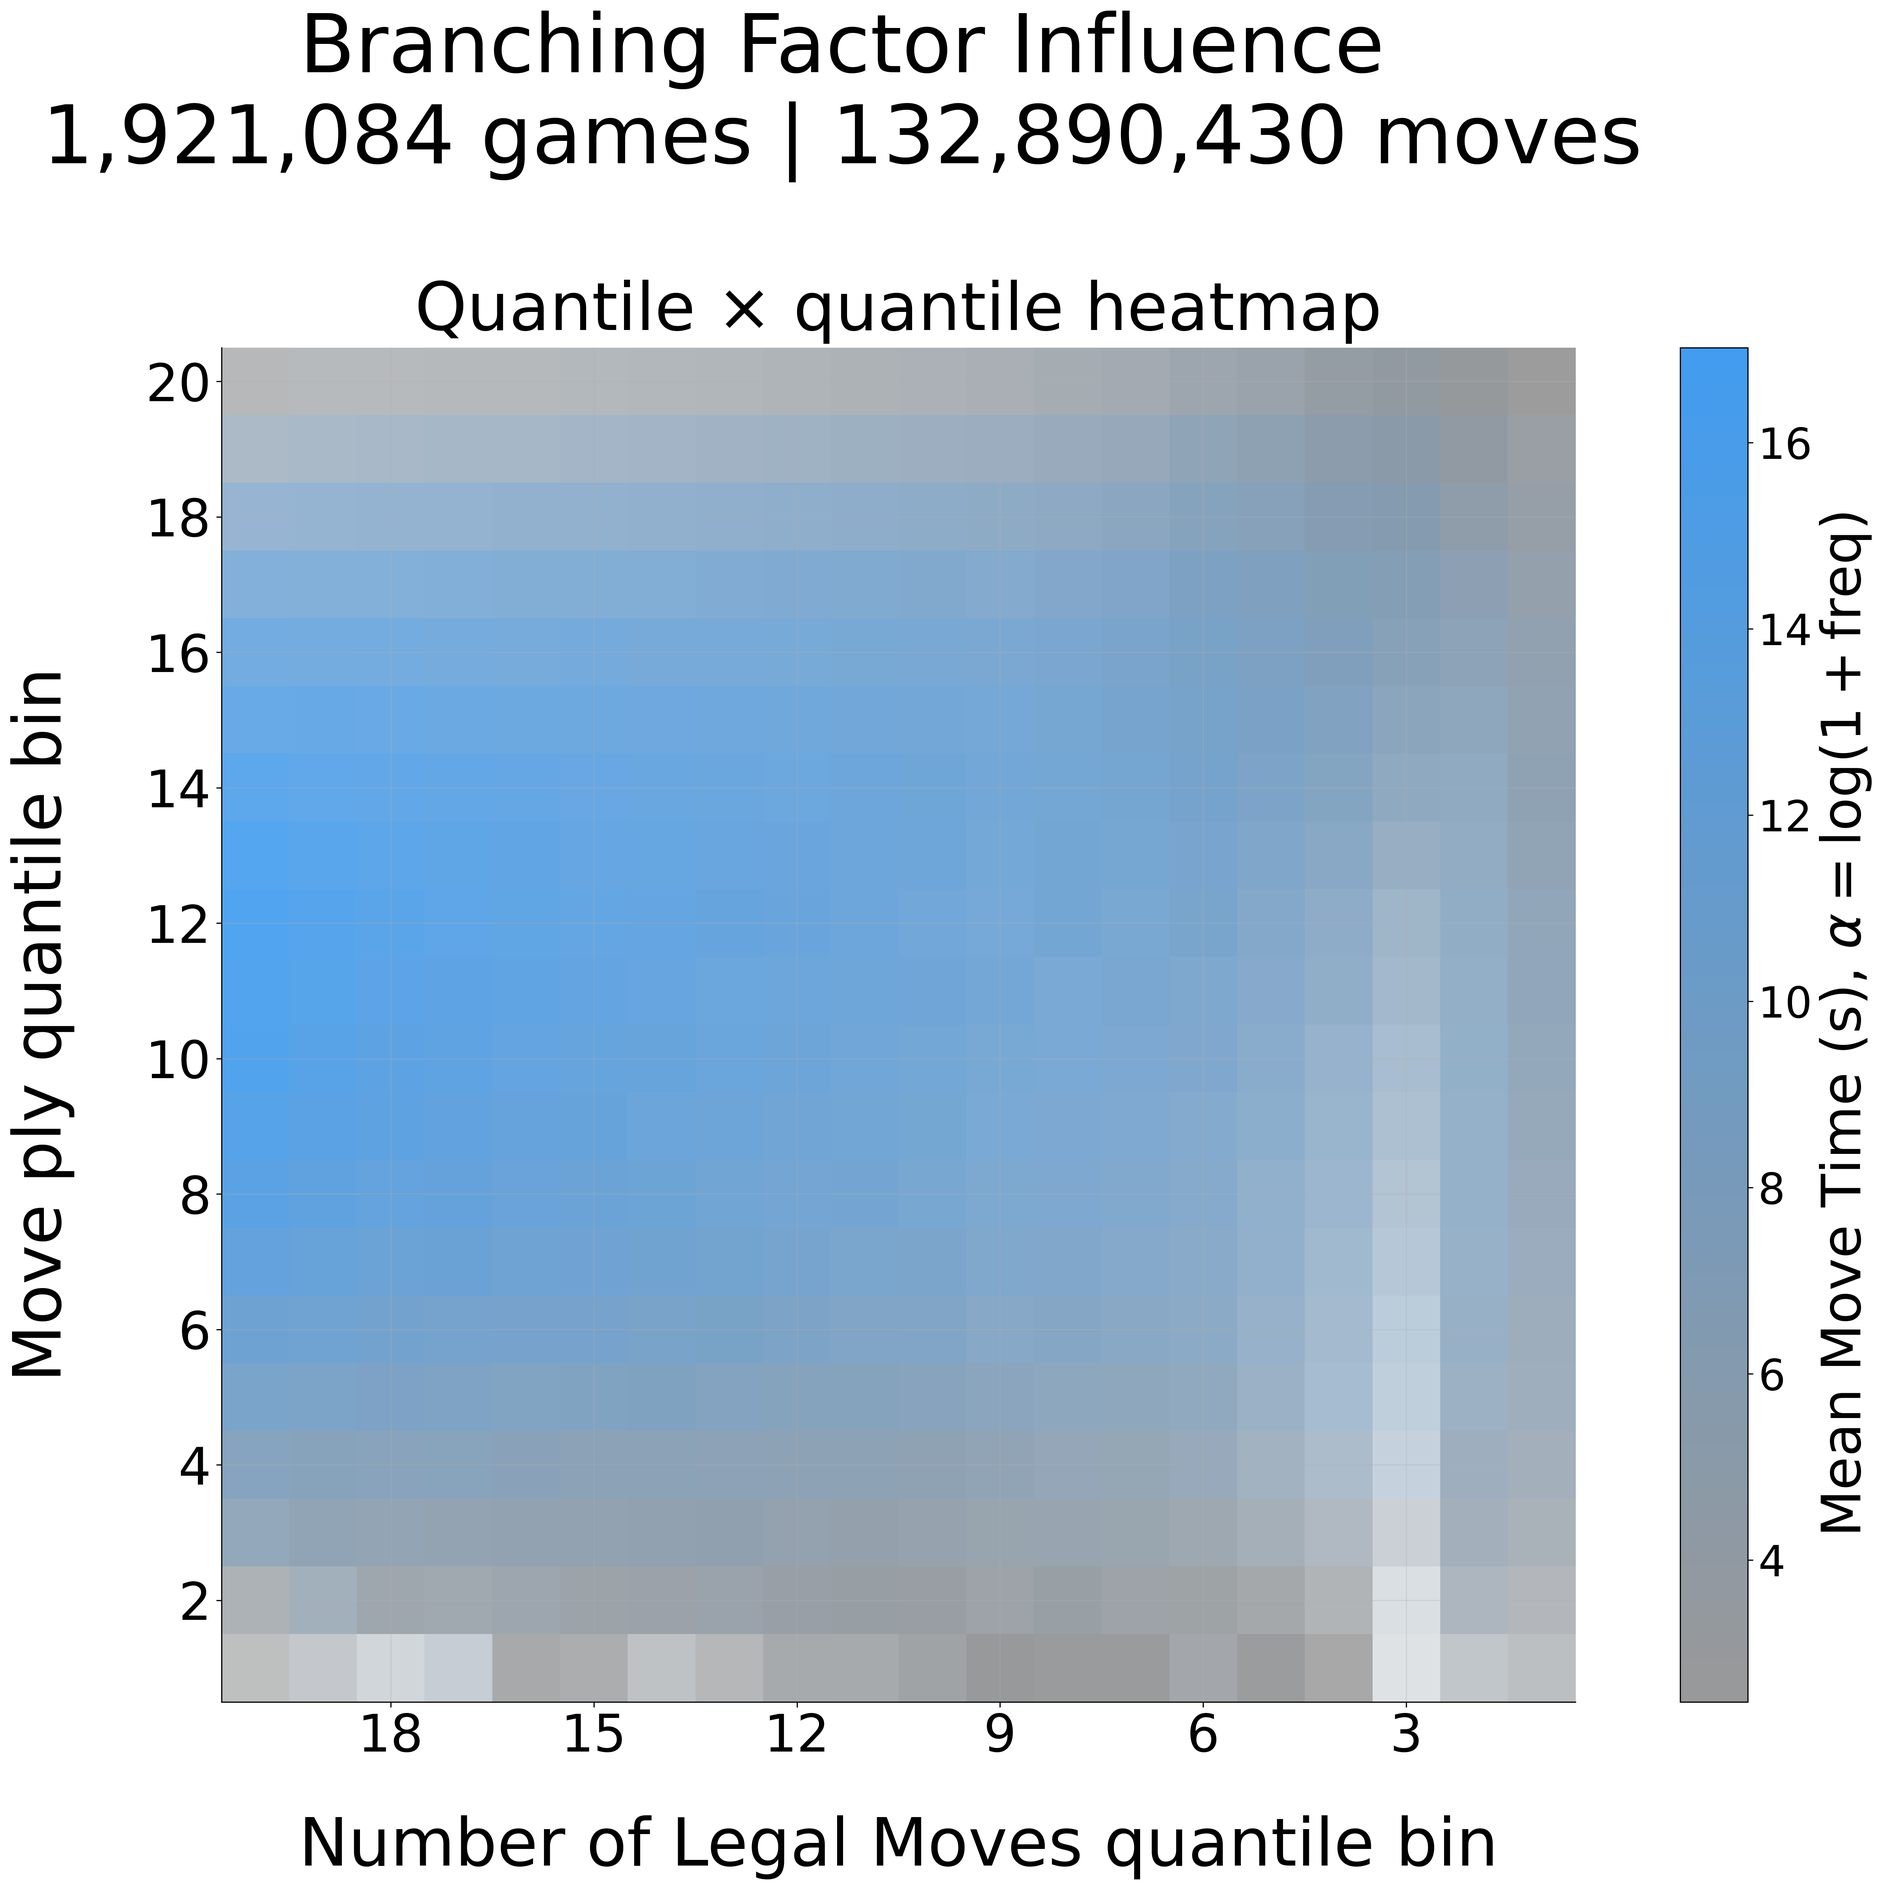
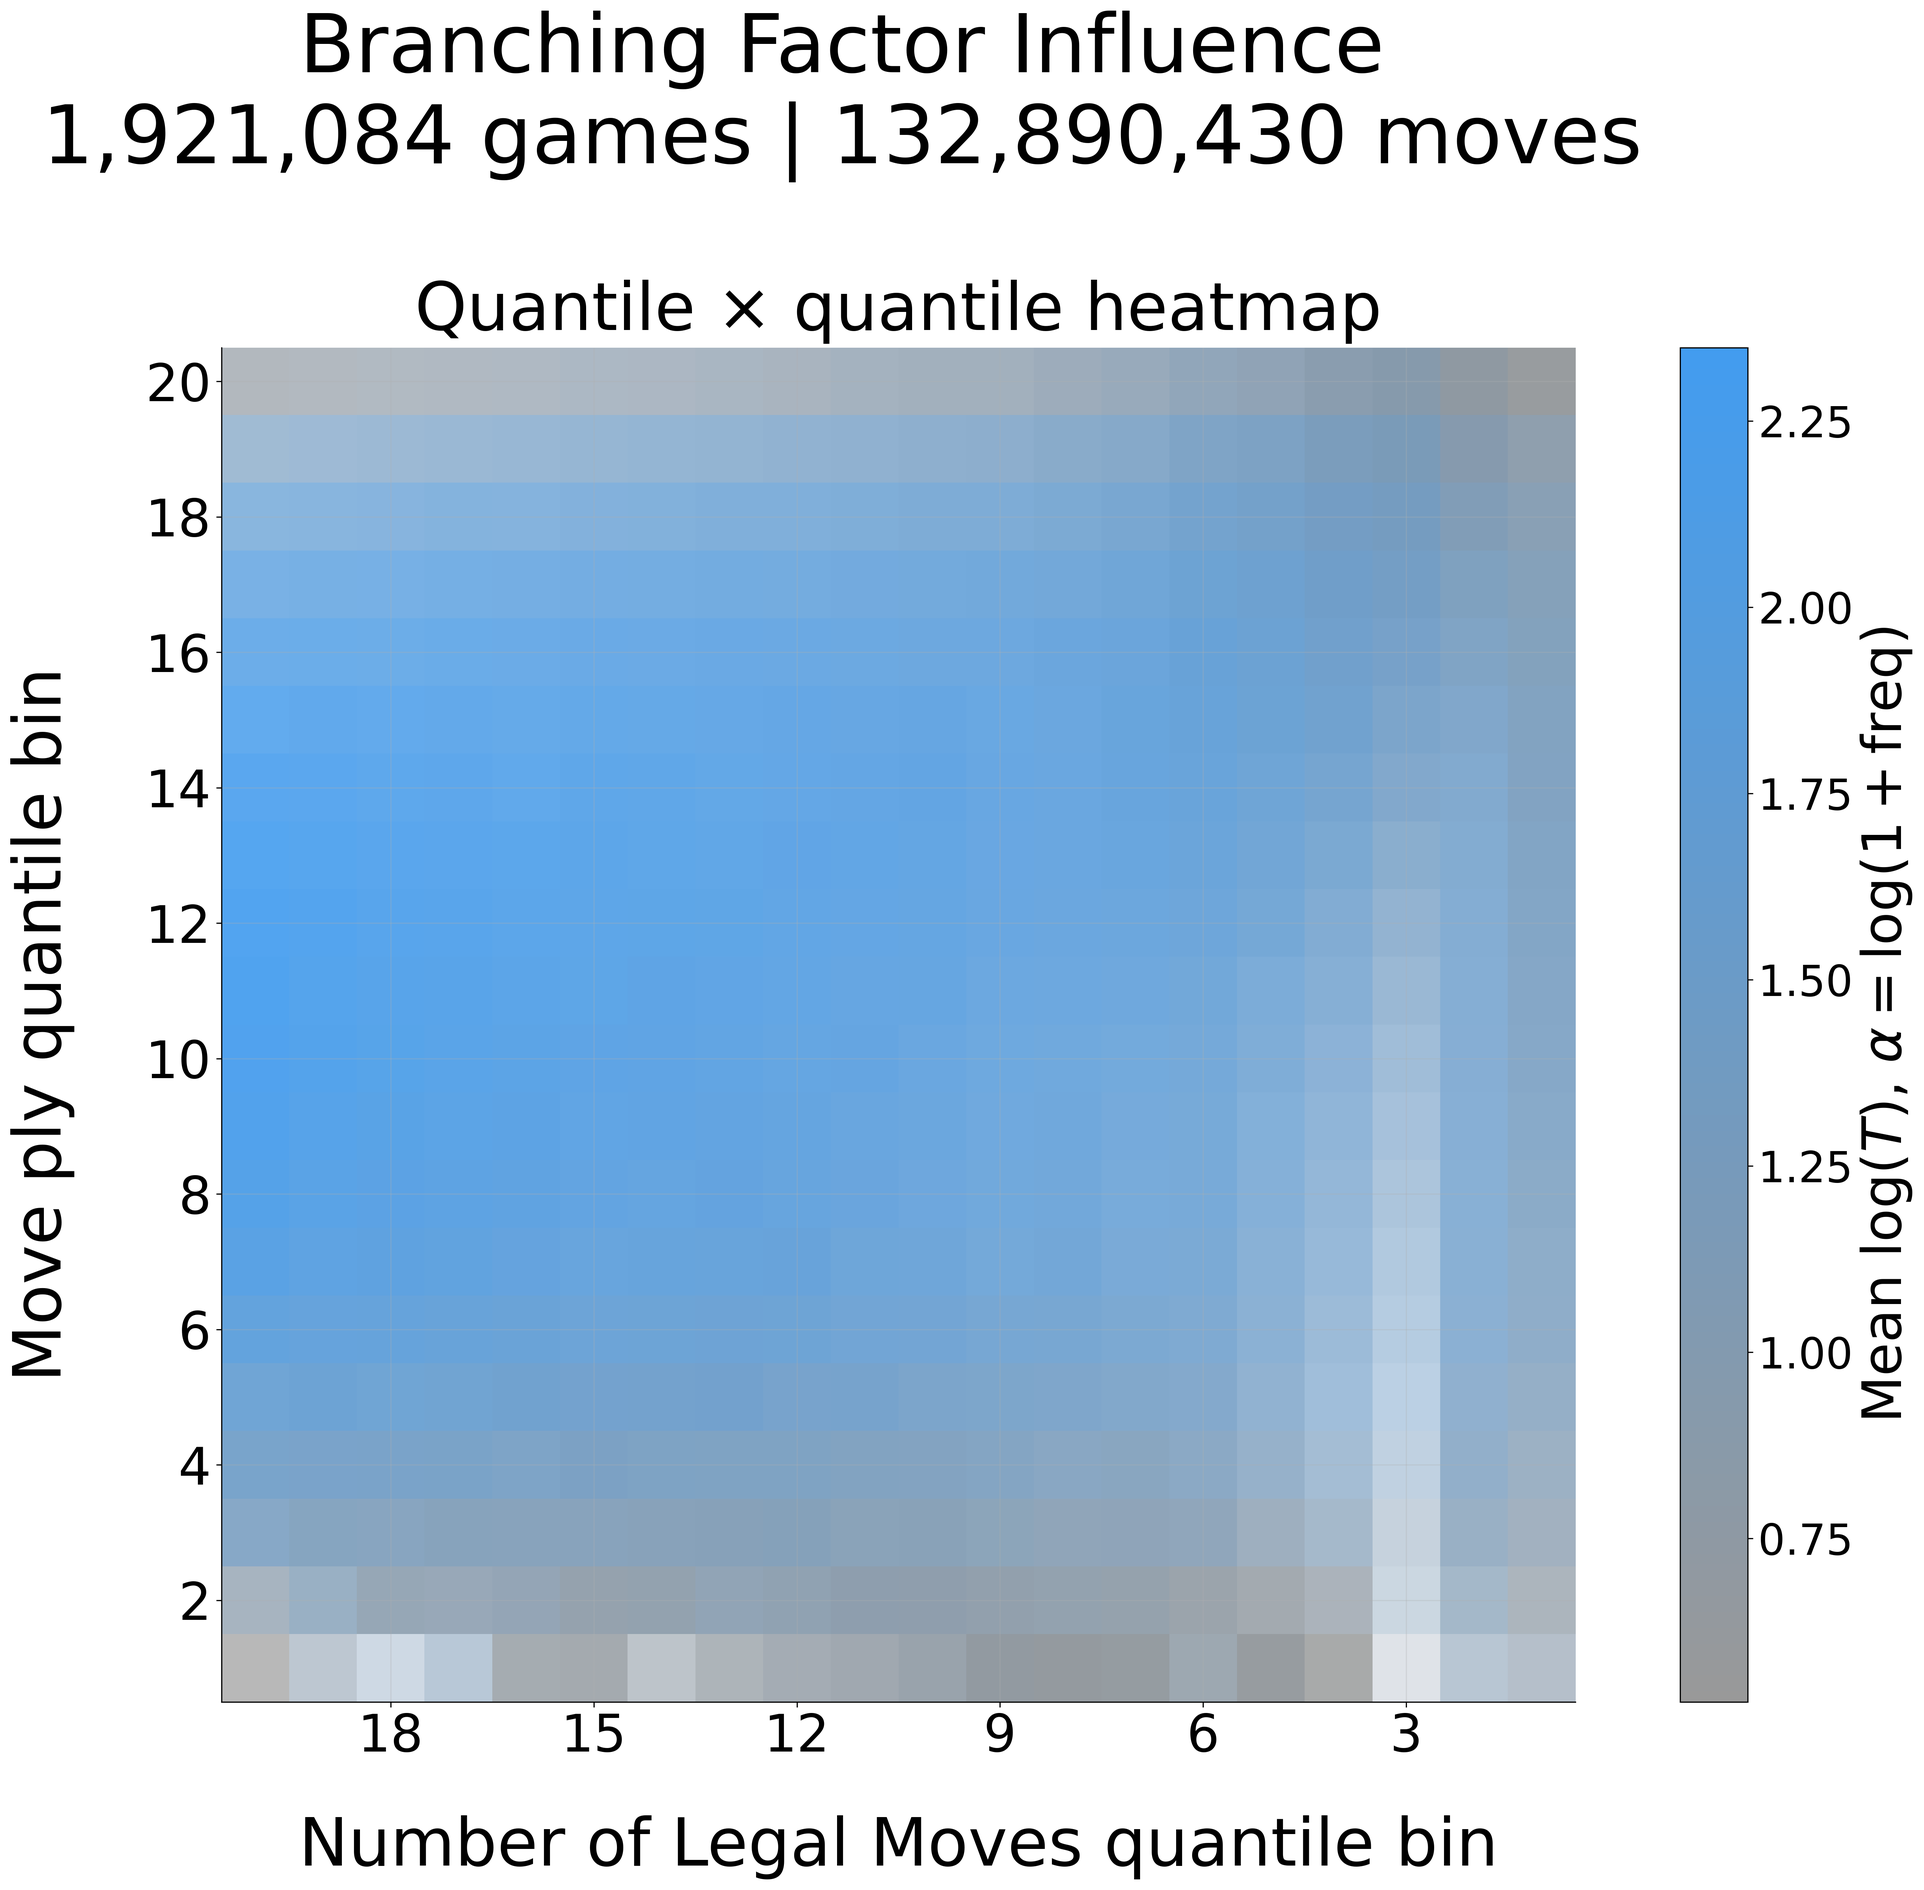
finishing up new plots

diff --git a/presentations/cmc-overview/style.css b/presentations/cmc-overview/style.css
@@ -97,3 +97,27 @@ h1, h2, h3, h4, .font-header, .slidev-layout h1, .slidev-layout h2, .slidev-layo
 .text-danger { color: var(--color-danger); }
 .bg-danger-soft { background-color: var(--bg-danger); }
 .bg-neutral-soft { background-color: var(--bg-neutral); }
+
+/*
+ * Tall PNGs in CSS Grid: grid items default to min-height: auto, so the row
+ * stays as tall as the image's intrinsic height and ignores max-height for layout.
+ * min-height: 0 on a wrapper lets the figure scale down; max-height uses vh so
+ * exports and different viewports stay inside the slide.
+ */
+.slide-quantile-heatmap-wrap {
+  /* min-height: 0;
+  min-width: 0; */
+  /* width: 100%;
+  /* max-width: 80%; */
+  background-color: red !important;
+}
+
+/* .slide-quantile-heatmap-wrap img {
+  display: block;
+  min-height: 0;
+  width: 100%;
+  max-width: 80%;
+  height: 80%;
+  /* max-height: min(36vh, 360px); */
+  /* object-fit: contain; */
+/* } */ */

diff --git a/src/movetime_analysis.py b/src/movetime_analysis.py
@@ -32,7 +32,7 @@ def npossiblemoves_movetime(conn: duckdb.DuckDBPyConnection, src_dir: str | None
     if src_dir is None:
         src_dir = _src_dir()
     x_var = Variable(column="n_possible_moves", is_log=False, name="Number of Legal Moves")
-    y_var = Variable(column="move_time", is_log=False, name="Move Time (s)")
+    y_var = Variable(column="move_time", is_log=True, name="T")
     analyzer = Analyzer(
         db_conn=conn,
         table_name="_selected_moves_nonzero_T",

diff --git a/presentations/cmc-overview/slides.md b/presentations/cmc-overview/slides.md
@@ -171,7 +171,9 @@ math: katex
 <div class="text-xs opacity-60 mb-2 -mt-2">Same sample as §4. Joint <code>ntile</code> bins of player clock × move ply; cell color = mean ln <i>T</i>, opacity = mass (see figure colorbar).</div>
 
 <div class="grid grid-cols-[65fr_35fr] gap-10 mt-4 items-start">
-  <img class="w-full object-contain max-h-[520px]" src="/figures/clock_movetime/combined_quantile_heatmap.png" />
+  <div class="slide-quantile-heatmap-wrap min-w-0">
+    <!-- <img src="/figures/clock_movetime/combined_quantile_heatmap.png" alt="" /> -->
+  </div>
   
   <div class="takeaway border-accent bg-accent-soft text-sm py-4">
     <b class="text-accent uppercase tracking-wider text-xs">clock × ply</b><br><br>
@@ -249,7 +251,7 @@ math: katex
 <div class="text-xs opacity-60 mb-2 -mt-2">Joint bins of <b>opponent</b> remaining clock × move ply; same encoding as §5.</div>
 
 <div class="grid grid-cols-[65fr_35fr] gap-10 mt-4 items-start">
-  <img class="w-full object-contain max-h-[520px]" src="/figures/clock_movetime/combined_opp_quantile_heatmap.png" />
+  <img class="w-full object-contain max-h-[400px]" src="/figures/clock_movetime/combined_opp_quantile_heatmap.png" />
   
   <div class="takeaway border-success bg-success-soft text-sm py-4">
     <b class="text-success uppercase tracking-wider text-xs">opp clock × ply</b><br><br>
@@ -261,14 +263,14 @@ math: katex
 
 # 9. Branching: legal moves vs. think time — dashboard
 
-<div class="text-xs opacity-60 mb-2 -mt-2">x = <code>n_possible_moves</code>; y = raw T (s), not log. Excludes <code>move_time = 0</code>.</div>
+<div class="text-xs opacity-60 mb-2 -mt-2">x = <code>n_possible_moves</code>; y = log move time (<code>ln(move_time + ε)</code>), same convention as ply/clock dashboards. Excludes <code>move_time = 0</code>.</div>
 
 <div class="grid grid-cols-[65fr_35fr] gap-10 mt-4 items-start">
   <img class="w-full object-contain" src="/figures/npossiblemoves_movetime/combined.png" />
   
   <div class="takeaway border-secondary bg-neutral-soft text-sm py-4">
     <b class="text-secondary uppercase tracking-wider text-xs">npossiblemoves_movetime</b><br><br>
-    2×2: branching vs raw T, OLS, per-ply β. Complements the log-time / clock slides.
+    2×2: branching vs log <i>T</i>, OLS, per-ply β. Matches ply/clock y-axis scaling.
   </div>
 </div>
 
@@ -276,10 +278,10 @@ math: katex
 
 # 10. Branching: legal moves vs. think time — quantile heatmap
 
-<div class="text-xs opacity-60 mb-2 -mt-2">Joint bins of legal-move count × move ply; cell color = mean raw <i>T</i> (this analysis uses linear move time on <i>y</i>).</div>
+<div class="text-xs opacity-60 mb-2 -mt-2">Joint bins of legal-move count × move ply; cell color = mean log <i>T</i> (same transform as the main branching dashboard).</div>
 
 <div class="grid grid-cols-[65fr_35fr] gap-10 mt-4 items-start">
-  <img class="w-full object-contain max-h-[520px]" src="/figures/npossiblemoves_movetime/combined_quantile_heatmap.png" />
+  <img class="w-full object-contain max-h-[400px]" src="/figures/npossiblemoves_movetime/combined_quantile_heatmap.png" />
   
   <div class="takeaway border-secondary bg-neutral-soft text-sm py-4">
     <b class="text-secondary uppercase tracking-wider text-xs">branching × ply</b><br><br>
@@ -292,7 +294,7 @@ math: katex
 # 11. Interaction: Clock & Ply (3D)
 
 <div class="grid grid-cols-1 gap-4 h-full -mt-6">
-  <div class="h-[420px]">
+  <div class="h-[340px]">
     <SurfPlot3D 
       csvPath="/data/heatmap_quantile.csv" 
       title="Thinking Topology: Quantile Interaction" 
